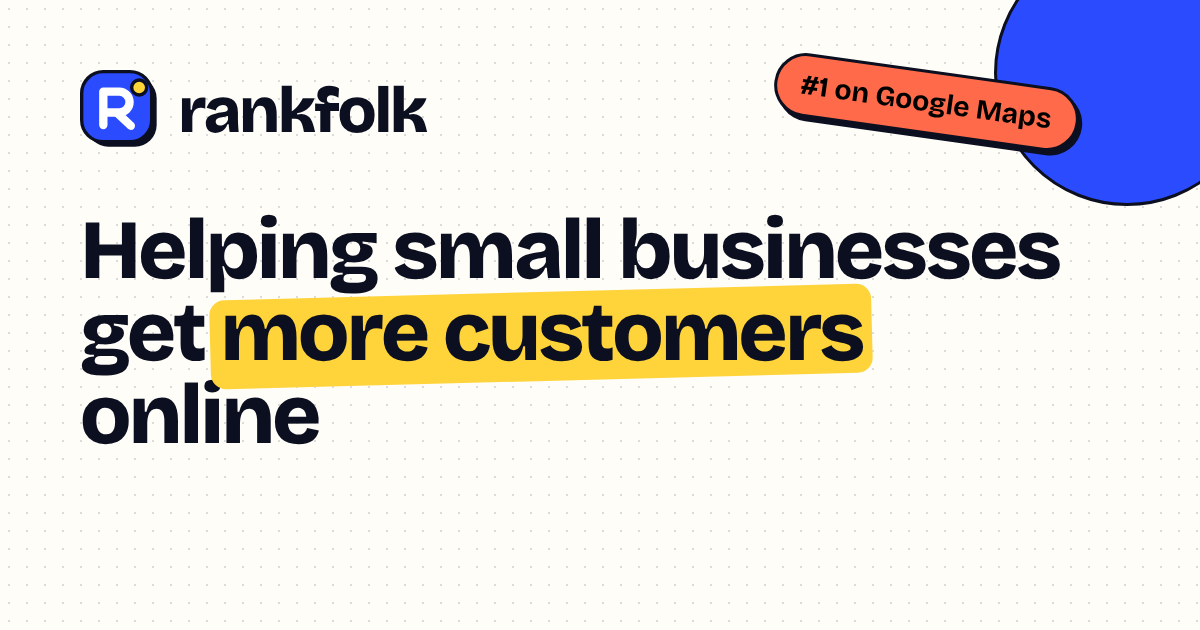
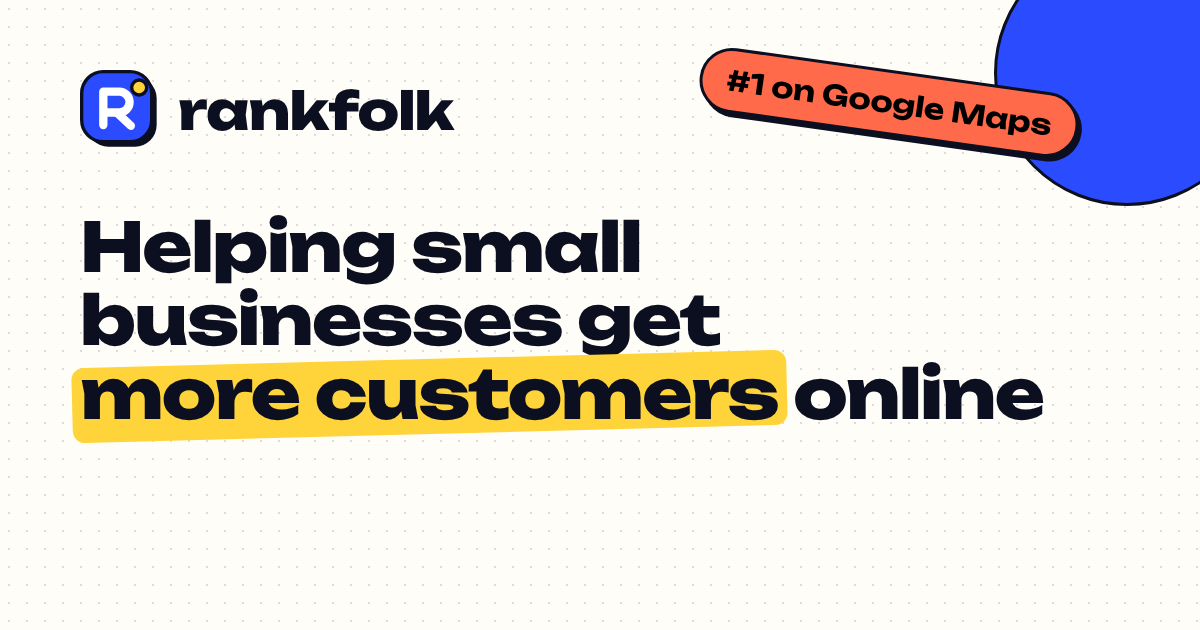
Add files via upload

Changed region(s): [[0.0617, 0.3317, 0.8942, 0.7238], [0.5858, 0.0603, 0.8942, 0.2714], [0.1542, 0.1206, 0.4008, 0.2111]]

diff --git a/src/styles/global.css b/src/styles/global.css
@@ -1,11 +1,11 @@
 @import '@fontsource-variable/inter';
-@import '@fontsource-variable/bricolage-grotesque';
+@import '@fontsource-variable/unbounded';
 @import 'tailwindcss';
 @plugin '@tailwindcss/typography';
 
 @theme {
 	--font-sans: 'Inter Variable', ui-sans-serif, system-ui, sans-serif;
-	--font-display: 'Bricolage Grotesque Variable', 'Inter Variable', ui-sans-serif, sans-serif;
+	--font-display: 'Unbounded Variable', 'Inter Variable', ui-sans-serif, sans-serif;
 
 	--color-blue: #2b4bff;
 	--color-blue-dark: #1a2fd1;
@@ -43,8 +43,8 @@
 	h3,
 	h4 {
 		font-family: var(--font-display);
-		letter-spacing: -0.03em;
-		line-height: 1.05;
+		letter-spacing: -0.012em;
+		line-height: 1.12;
 	}
 	:focus-visible {
 		outline: 3px solid var(--color-blue);
@@ -95,8 +95,8 @@
 		border-radius: 999px;
 		font-family: var(--font-display);
 		font-weight: 700;
-		font-size: 0.85rem;
-		line-height: 1;
+		font-size: 0.75rem;
+		line-height: 1.1;
 		padding: 0.45rem 0.85rem;
 		background: white;
 		white-space: nowrap;
@@ -111,8 +111,8 @@
 		color: white;
 		font-family: var(--font-display);
 		font-weight: 700;
-		font-size: 1.05rem;
-		padding: 0.85rem 1.5rem;
+		font-size: 0.95rem;
+		padding: 0.9rem 1.5rem;
 		box-shadow: var(--shadow-pop);
 		transition:
 			transform 0.15s ease,
@@ -212,7 +212,8 @@
 	--tw-prose-code: var(--color-ink);
 }
 .prose-rankfolk h2 {
-	font-weight: 800;
+	font-weight: 700;
+	font-size: 1.55em;
 	scroll-margin-top: 6rem;
 }
 .prose-rankfolk h3 {

diff --git a/CLAUDE.md b/CLAUDE.md
@@ -16,7 +16,7 @@ Rankfolk (rankfolk.com) is a static Astro 7 + Tailwind 4 blog for small business
 - Site settings, author, categories, menu, AdSense ID: `src/site.config.ts`
 - Articles: `src/content/blog/*.md` (schema in `src/content.config.ts`)
 - Layouts: `src/layouts/`, components: `src/components/`, pages: `src/pages/`
-- Brand colors and fonts: `src/styles/global.css` (electric blue #2b4bff, sun yellow #ffd43b, coral #ff6b4a, lilac #c9b8ff, ink #0b0f1f, paper #fffdf8; bold "pop" style with 2px ink borders and hard offset shadows; Bricolage Grotesque headings, Inter body)
+- Brand colors and fonts: `src/styles/global.css` (electric blue #2b4bff, sun yellow #ffd43b, coral #ff6b4a, lilac #c9b8ff, ink #0b0f1f, paper #fffdf8; bold "pop" style with 2px ink borders and hard offset shadows; Unbounded headings, Inter body)
 
 ## New article checklist
 

diff --git a/README.md b/README.md
@@ -70,7 +70,7 @@ In Cloudflare, open your domain → **Email → Email Routing** and forward `hel
 - SEO: titles, meta descriptions, canonical URLs, Open Graph and Twitter cards, BlogPosting, Breadcrumb, WebSite and Person schema
 - Sitemap, robots.txt, RSS feed, ads.txt
 - Author box, related posts, table of contents, reading time, "Want this done for you?" box linking to Mago Labs
-- Self-hosted fonts (Bricolage Grotesque and Inter), mobile menu without JavaScript
+- Self-hosted fonts (Unbounded and Inter), mobile menu without JavaScript
 
 ## Note
 
